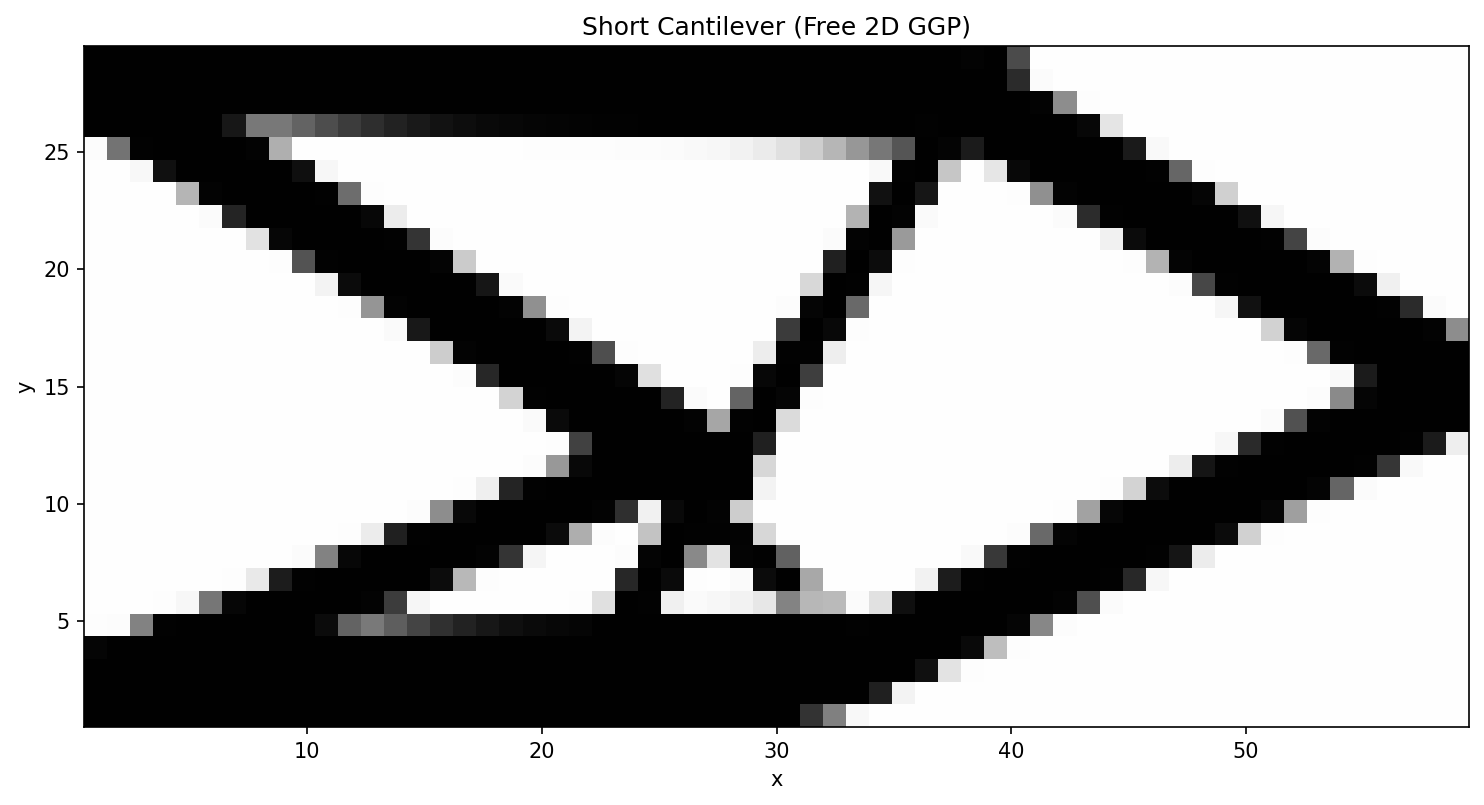
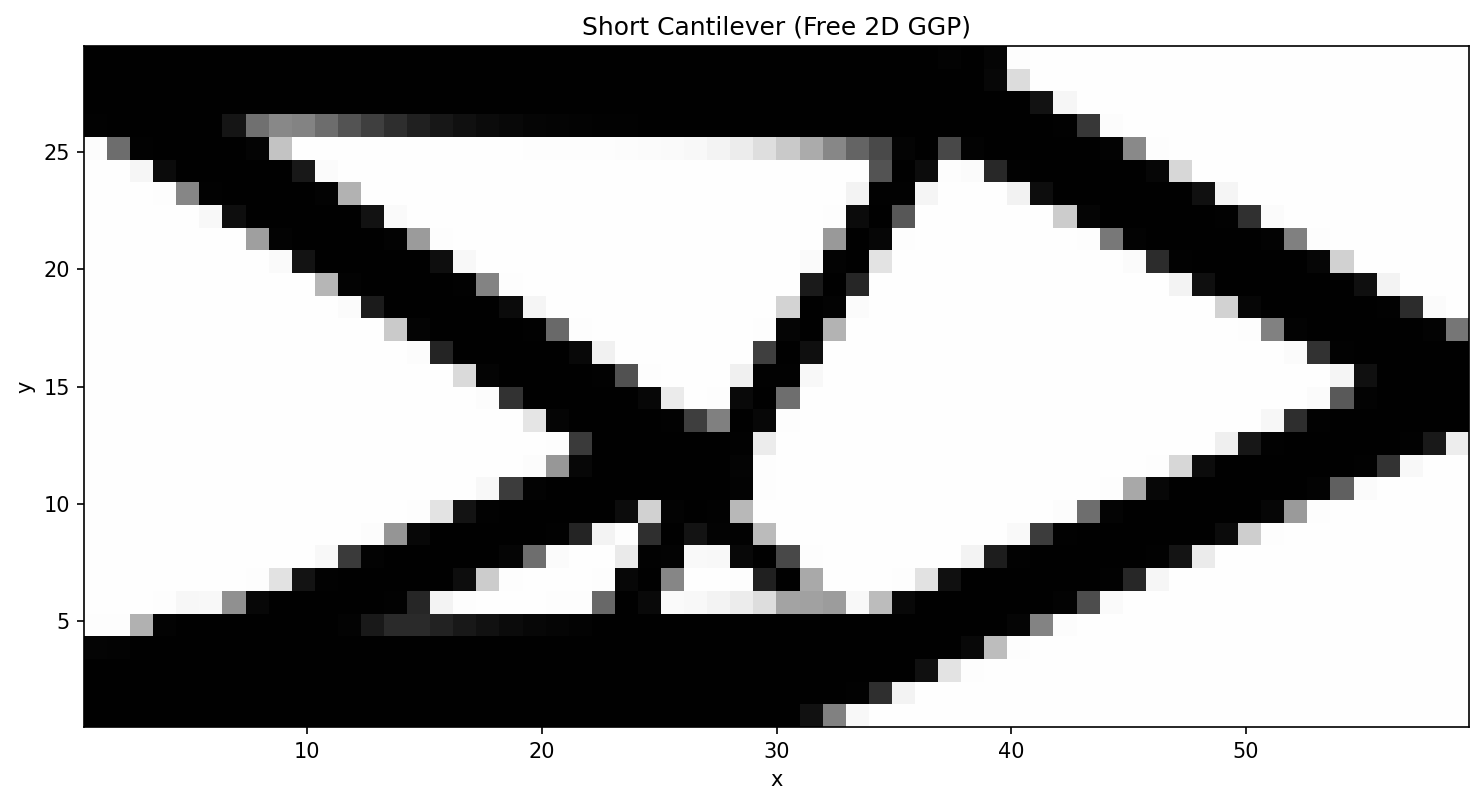
fix: align 2D ALM with Matlab reference; tune benchmarks
ALM (Matlab-consistency):
- Normalize overhang constraints to O(1) as g = (A x)/b - 1, matching
  ALM_constraint.m (tv = (tanalpha - tan45)/tan45). Raw physical residuals
  were poorly scaled for MMA.
- Fix layer_height to Ly/(nY-1) so layers span the full domain height,
  matching Matlab linspace(0, nely, nY).
- Staircase initialization: each column placed at the max-overhang feasible
  position with the rightmost column reaching the load layer, giving non-zero
  gradient from iteration 1.
- Document GEMSEO-native KS aggregation option (upper_bound_KS, rho=40) and
  why we keep individual linear constraints (exact feasible polytope, C~195
  vs ~262 for the conservative KS form).

Benchmarks:
- short_cantilever: 250 iterations (symmetric X-truss, C~74).
- 3d_cantilever: volfrac 0.10; 4-panel visualization with BC/load markers.
- Regenerate optimized-design figures and docs tables.

Cleanup:
- Fix invalid escape sequence in projection/registry.py docstring.

Claude-Session: https://claude.ai/code/session_01Queb8V5EuSbTaDyBGyr8wK

diff --git a/ggp/optimization/pipeline.py b/ggp/optimization/pipeline.py
@@ -58,11 +58,19 @@ class _OverhangDiscipline(Discipline):
             self.local_data.update(input_data)
         x = self.local_data["x_vars"].flatten()
         x_unscaled = self.lb + x * (self.ub - self.lb)
-        self.local_data["overhang"] = self.A @ x_unscaled - self.b_rhs
+        # Normalize each constraint by its rhs (delta or BL > 0) so values are O(1).
+        # This matches the Matlab ALM_constraint.m form g = (A x)/b - 1, which is
+        # what makes KS aggregation with rho=40 numerically well-behaved (raw
+        # physical residuals span tens of units → exp(40*res) overflows).
+        self.local_data["overhang"] = (self.A @ x_unscaled) / self.b_rhs - 1.0
 
     def _compute_jacobian(self, inputs=None, outputs=None, **kwargs):
         scale = self.ub - self.lb
-        self.jac = {"overhang": {"x_vars": self.A * scale[np.newaxis, :]}}
+        self.jac = {
+            "overhang": {
+                "x_vars": (self.A * scale[np.newaxis, :]) / self.b_rhs[:, np.newaxis]
+            }
+        }
 
 
 class GGPPipeline:
@@ -135,25 +143,37 @@ class GGPPipeline:
 
         if mode in ("ALM", "2D_ALM"):
             # Interleaved layout: [Xc_0_0, L_0_0, ..., h_0..h_{np-1}, Mc_0..Mc_{np-1}, y0, theta0]
-            # Matches Matlab reference: Xc on a regular grid, L = nelx/2/np (≈ midpoint),
-            # h = 1 (full column height), Mc = initial_d = 0.5.
-            np_val = kwargs.get("np_val", 1)
-            nY     = kwargs.get("nY", 1)
-            n_xl   = 2 * nY * np_val
+            np_val     = kwargs.get("np_val", 1)
+            nY         = kwargs.get("nY", 1)
+            layer_h    = kwargs.get("layer_height", 3.0)
+            alpha_deg  = kwargs.get("alpha_deg", 45.0)
+            n_xl       = 2 * nY * np_val
             x = np.empty(n)
-            # [Xc, L] interleaved (F-order: layer k is inner loop, column j is outer).
-            # np.repeat gives [c0]*nY, [c1]*nY, ..., [c_{np-1}]*nY — correct F-order layout.
-            col_positions_norm = np.linspace(1.0/(np_val+1), np_val/(np_val+1), np_val)
-            x[0:n_xl:2] = np.repeat(col_positions_norm, nY)  # Xc: F-order grid per layer
-            x[1:n_xl:2] = 0.333                               # L: ~1/3 of range ≈ Matlab Lc=nelx/2/np
-            # h = 1 (normalised to upper bound → full print height, matching Matlab h=ones)
-            x[n_xl       : n_xl + np_val] = 1.0
-            # Mc = initial_d = 0.5
-            x[n_xl + np_val : n_xl + 2*np_val] = 0.50
-            # y0, theta0: neutral (0.5 maps to 0 for symmetric bounds)
+
+            # Staircase initialization: each column is a maximum-overhang ascending
+            # staircase so that the rightmost column reaches x=Lx at mid-height
+            # (the load layer), giving non-zero gradient from iteration 1.
+            # Physical Xc bounds: lb=-1, ub=Lx+1 (range = Lx+2).
+            Lx         = kwargs.get("Lx", 60.0)
+            xc_range   = Lx + 2.0                          # ub - lb = (Lx+1) - (-1)
+            delta_norm = np.tan(np.deg2rad(alpha_deg)) * layer_h / xc_range
+            load_layer  = nY // 2
+            P_bot_right = (Lx + 1.0) / xc_range - load_layer * delta_norm
+            P_bot_left  = (0.0 + 1.0) / xc_range
+            P_bottom = np.linspace(P_bot_left, P_bot_right, np_val)
+
+            # Assign Xc[k, j] = P_bottom[j] + k * delta_norm (clamped to [0,1])
+            # F-order: x_vars index of Xc[k,j] = 2*(j*nY + k)
+            for j in range(np_val):
+                for k in range(nY):
+                    x[2*(j*nY + k)]     = float(np.clip(P_bottom[j] + k*delta_norm, 0.0, 1.0))
+                    x[2*(j*nY + k) + 1] = 0.333   # L normalized ≈ 6 physical
+
+            x[n_xl       : n_xl + np_val] = 1.0   # h = 1 (full height)
+            x[n_xl + np_val : n_xl + 2*np_val] = 0.50  # Mc = 0.5
             if n >= n_xl + 2*np_val + 2:
-                x[n_xl + 2*np_val]     = 0.5  # y0 = 0
-                x[n_xl + 2*np_val + 1] = 0.5  # theta0 = 0
+                x[n_xl + 2*np_val]     = 0.5   # y0 = 0
+                x[n_xl + 2*np_val + 1] = 0.5   # theta0 = 0
             return x
 
         if mode == "3D_Free":
@@ -293,9 +313,14 @@ class GGPPipeline:
 
         _init_kwargs = {}
         if mode in ["ALM", "2D_ALM"] and self.spec.formulation.num_layers:
+            _oh = next((c for c in self.spec.constraints if c.name == "overhang"), None)
+            _alpha = _oh.params.get("alpha_deg", 45.0) if _oh else 45.0
             _init_kwargs = {
-                "np_val": self.spec.formulation.comp_per_layer,
-                "nY":     self.spec.formulation.num_layers,
+                "np_val":       self.spec.formulation.comp_per_layer,
+                "nY":           self.spec.formulation.num_layers,
+                "layer_height": self.spec.formulation.layer_height,
+                "alpha_deg":    _alpha,
+                "Lx":           Lx,
             }
         elif mode in ("Free", "2D_Free"):
             # Pass domain extents and mapper bounds for Matlab-style grid init
@@ -367,6 +392,16 @@ class GGPPipeline:
                 scenario.add_constraint(
                     "overhang", constraint_type="ineq", positive=False, value=0.0
                 )
+
+        # NOTE on overhang aggregation: the Matlab reference (ALM_constraint.m)
+        # aggregates all overhang sub-constraints into a single KS scalar (ka=40).
+        # GEMSEO offers this natively via
+        #   problem.constraints.aggregate(idx, method="upper_bound_KS", rho=ka)
+        # but upper_bound_KS is conservative (over-estimates the max), which shrinks
+        # the feasible polytope and raises compliance (~262 vs ~195). We therefore
+        # keep the (nY-1)*np*2 individual linear inequalities, which give MMA the
+        # exact feasible region. The constraint values are still normalised to O(1)
+        # in _OverhangDiscipline, matching the Matlab g = (A x)/b - 1 form.
 
         algo_options = self.spec.solver.options.copy()
         if "max_iter" not in algo_options:

diff --git a/ggp/visualization/plot.py b/ggp/visualization/plot.py
@@ -62,13 +62,14 @@ def save_density_plot_3d(
     eval_coords: np.ndarray,
     output_path: str | Path,
     title: str = "3D Optimized Design",
-    iso_level: float = 0.3,
+    iso_level: float = 0.5,
+    fixed_face: str = "left",
+    load_point: tuple | None = None,
 ) -> None:
-    """Render a 3D isosurface of the density field via marching cubes.
+    """Render a 4-panel 3D isosurface figure (ρ > iso_level) with BC/load markers.
 
-    Produces a perspective-correct solid-body view matching the kind of output
-    ParaView shows for topology-optimized structures (light-shaded isosurface at
-    rho = iso_level, viewed from a south-east elevated angle).
+    Panels: isometric view, XY front (z=mid), XZ top (y=mid), YZ side (x=max).
+    Fixed face is highlighted in blue; load location shown as a red arrow.
     """
     import matplotlib
     matplotlib.use("Agg")
@@ -79,6 +80,7 @@ def save_density_plot_3d(
     X = eval_coords[:, 0]
     Y = eval_coords[:, 1]
     Z = eval_coords[:, 2]
+    Lx, Ly, Lz = X.max(), Y.max(), Z.max()
 
     x_unique = np.sort(np.unique(np.round(X, 6)))
     y_unique = np.sort(np.unique(np.round(Y, 6)))
@@ -89,42 +91,91 @@ def save_density_plot_3d(
     yi = np.searchsorted(y_unique, np.round(Y, 6))
     zi = np.searchsorted(z_unique, np.round(Z, 6))
 
-    # Build (nelx, nely, nelz) density volume
     vol = np.zeros((nelx, nely, nelz))
     vol[xi, yi, zi] = rho_E
 
-    # Pad with a one-voxel void shell so marching cubes closes the boundary
     vol_pad = np.pad(vol, 1, mode="constant", constant_values=0.0)
     verts, faces, _, _ = marching_cubes(vol_pad, level=iso_level)
 
-    # Convert voxel indices back to physical coordinates (undo the padding offset)
     dx = (x_unique[-1] - x_unique[0]) / max(nelx - 1, 1)
     dy = (y_unique[-1] - y_unique[0]) / max(nely - 1, 1)
     dz = (z_unique[-1] - z_unique[0]) / max(nelz - 1, 1)
-    verts_phys = np.column_stack([
+    vp = np.column_stack([
         x_unique[0] + (verts[:, 0] - 1) * dx,
         y_unique[0] + (verts[:, 1] - 1) * dy,
         z_unique[0] + (verts[:, 2] - 1) * dz,
     ])
 
-    mesh = Poly3DCollection(verts_phys[faces], alpha=0.95, linewidth=0)
-    mesh.set_facecolor("#4d7db5")
-    mesh.set_edgecolor("none")
+    # Default load at mid-right face centre
+    if load_point is None:
+        load_point = (Lx, Ly / 2, Lz / 2)
+    lx, ly, lz = load_point
 
-    fig = plt.figure(figsize=(10, 7), facecolor="white")
-    ax = fig.add_subplot(111, projection="3d")
-    ax.add_collection3d(mesh)
+    def _add_isosurface(ax):
+        mesh = Poly3DCollection(vp[faces], alpha=0.90, linewidth=0)
+        mesh.set_facecolor("#4d7db5")
+        mesh.set_edgecolor("none")
+        ax.add_collection3d(mesh)
 
-    ax.set_xlim(X.min(), X.max())
-    ax.set_ylim(Y.min(), Y.max())
-    ax.set_zlim(Z.min(), Z.max())
-    ax.set_xlabel("x")
-    ax.set_ylabel("y")
-    ax.set_zlabel("z")
-    ax.set_title(title)
-    # South-east elevated view angle (matches typical ParaView preset)
-    ax.view_init(elev=25, azim=-60)
+    def _add_fixed_face(ax):
+        """Blue translucent rectangle for the fixed (left) face."""
+        from mpl_toolkits.mplot3d.art3d import Poly3DCollection as P3D
+        if fixed_face == "left":
+            corners = np.array([[0, 0, 0], [0, Ly, 0], [0, Ly, Lz], [0, 0, Lz]])
+        face = P3D([corners], alpha=0.25, linewidth=0)
+        face.set_facecolor("#2ca02c")
+        ax.add_collection3d(face)
 
-    plt.tight_layout()
+    def _add_load_arrow(ax):
+        ax.quiver(lx, ly, lz, 0, 0, -Lz * 0.15,
+                  color="red", linewidth=2, arrow_length_ratio=0.4)
+        ax.scatter([lx], [ly], [lz], color="red", s=40, zorder=5)
+
+    def _set_limits(ax):
+        ax.set_xlim(0, Lx); ax.set_ylim(0, Ly); ax.set_zlim(0, Lz)
+        ax.set_xlabel("x"); ax.set_ylabel("y"); ax.set_zlabel("z")
+
+    fig = plt.figure(figsize=(14, 10), facecolor="white")
+    fig.suptitle(title, fontsize=13, y=0.98)
+
+    # Panel 1 — isometric view
+    ax1 = fig.add_subplot(221, projection="3d")
+    _add_isosurface(ax1); _add_fixed_face(ax1); _add_load_arrow(ax1)
+    _set_limits(ax1)
+    ax1.view_init(elev=25, azim=-55)
+    ax1.set_title("Isometric", fontsize=10)
+
+    # Panel 2 — front view (looking along Z)
+    ax2 = fig.add_subplot(222, projection="3d")
+    _add_isosurface(ax2); _add_fixed_face(ax2); _add_load_arrow(ax2)
+    _set_limits(ax2)
+    ax2.view_init(elev=0, azim=-90)
+    ax2.set_title("Front (XY plane)", fontsize=10)
+
+    # Panel 3 — top view (looking down Y)
+    ax3 = fig.add_subplot(223, projection="3d")
+    _add_isosurface(ax3); _add_fixed_face(ax3); _add_load_arrow(ax3)
+    _set_limits(ax3)
+    ax3.view_init(elev=90, azim=-90)
+    ax3.set_title("Top (XZ plane)", fontsize=10)
+
+    # Panel 4 — side view (looking along X from right)
+    ax4 = fig.add_subplot(224, projection="3d")
+    _add_isosurface(ax4); _add_fixed_face(ax4); _add_load_arrow(ax4)
+    _set_limits(ax4)
+    ax4.view_init(elev=0, azim=0)
+    ax4.set_title("Side (YZ plane)", fontsize=10)
+
+    # Legend patches
+    from matplotlib.patches import Patch
+    legend_elements = [
+        Patch(facecolor="#4d7db5", alpha=0.9, label=f"Material (ρ > {iso_level})"),
+        Patch(facecolor="#2ca02c", alpha=0.4, label="Fixed face (BC)"),
+        Patch(facecolor="red", label="Point load"),
+    ]
+    fig.legend(handles=legend_elements, loc="lower center", ncol=3, fontsize=9,
+               bbox_to_anchor=(0.5, 0.01))
+
+    plt.tight_layout(rect=[0, 0.05, 1, 0.97])
     plt.savefig(str(output_path), dpi=150, bbox_inches="tight", facecolor="white")
     plt.close()

diff --git a/ggp/utils/alm_utils.py b/ggp/utils/alm_utils.py
@@ -1,14 +1,19 @@
 import numpy as np
 
 
-def _xc_idx(layer, comp, comp_per_layer):
-    """Global variable index for Xc_{layer, comp} in the interleaved layout."""
-    return 2 * (layer * comp_per_layer + comp)
+def _xc_idx(layer, comp, num_layers):
+    """Global variable index for Xc_{layer, comp} in the F-order interleaved layout.
+
+    The mapper reshapes Xc with order='F' to (nY, np_val), so the flat index of
+    element [layer, comp] is comp*nY + layer, giving global x_vars index
+    2*(comp*num_layers + layer).
+    """
+    return 2 * (comp * num_layers + layer)
 
 
-def _l_idx(layer, comp, comp_per_layer):
-    """Global variable index for L_{layer, comp} in the interleaved layout."""
-    return 2 * (layer * comp_per_layer + comp) + 1
+def _l_idx(layer, comp, num_layers):
+    """Global variable index for L_{layer, comp} in the F-order interleaved layout."""
+    return 2 * (comp * num_layers + layer) + 1
 
 
 def create_alm_overhang_constraints(num_layers, comp_per_layer, layer_height, alpha_deg,
@@ -53,10 +58,10 @@ def create_alm_overhang_constraints(num_layers, comp_per_layer, layer_height, al
     row = 0
     for layer in range(num_interfaces):
         for j in range(np_val):
-            ix_k   = _xc_idx(layer,     j, np_val)
-            il_k   = _l_idx(layer,      j, np_val)
-            ix_k1  = _xc_idx(layer + 1, j, np_val)
-            il_k1  = _l_idx(layer + 1,  j, np_val)
+            ix_k   = _xc_idx(layer,     j, nY)
+            il_k   = _l_idx(layer,      j, nY)
+            ix_k1  = _xc_idx(layer + 1, j, nY)
+            il_k1  = _l_idx(layer + 1,  j, nY)
 
             # Constraint 1 (right overhang): Xc_{k+1} + L_{k+1}/2 - Xc_k - L_k/2 <= delta_r
             A[row, ix_k1] =  1.0
@@ -104,9 +109,9 @@ def create_bridge_length_constraints(num_layers, comp_per_layer, bridge_length):
     row = 0
     for layer in range(1, nY):
         for j in range(np_val):
-            ix_base = _xc_idx(0,     j, np_val)
-            ix_k    = _xc_idx(layer, j, np_val)
-            il_k    = _l_idx(layer,  j, np_val)
+            ix_base = _xc_idx(0,     j, nY)
+            ix_k    = _xc_idx(layer, j, nY)
+            il_k    = _l_idx(layer,  j, nY)
 
             # Right: Xc_k + L_k/2 - Xc_0 <= BL
             A[row, ix_k]    =  1.0

diff --git a/ggp/projection/registry.py b/ggp/projection/registry.py
@@ -48,7 +48,7 @@ def get_mapper(mode: str, **kwargs) -> ProjectionMapper:
     ----------
     mode : str
         Formulation mode (must match a previously registered mapper).
-    \*\*kwargs
+    **kwargs
         Forwarded to the mapper constructor.
 
     Raises

diff --git a/docs/ex05_3d_cantilever.rst b/docs/ex05_3d_cantilever.rst
@@ -28,15 +28,18 @@ For large 3D problems an iterative (PCG + GAMG) FEM solver saves memory:
 Result
 ------
 
-The image below shows an isosurface rendering of the optimised 3D density field
-(isosurface at ρ = 0.3, viewed from a south-east elevated perspective).
+The figure below shows four views of the optimised 3D density field (isosurface
+at ρ = 0.5, i.e. solid material only): isometric, front (XY plane), top (XZ
+plane), and side (YZ plane).  The green face marks the fixed boundary condition;
+the red dot and arrow mark the applied point load at the mid-right face.
 
 .. figure:: _static/3d_cantilever_optimized.png
-   :alt: Optimized 3D cantilever topology (isosurface rendering)
-   :width: 90%
+   :alt: Optimized 3D cantilever topology — 4-panel isosurface views
+   :width: 100%
    :align: center
 
-   3D isosurface of the optimised density field after 150 MMA iterations (2 % volume fraction — consistent with 3D bar cross-sections).
+   Four-view isosurface (ρ > 0.5) of the optimised 3D density field after 150
+   MMA iterations (10 % volume fraction).
 
 Problem details
 ---------------
@@ -52,7 +55,7 @@ Problem details
 +---------------------+------------------+
 | Components          | 20               |
 +---------------------+------------------+
-| Volume fraction     | 0.02             |
+| Volume fraction     | 0.10             |
 +---------------------+------------------+
 | Algorithm           | MMA              |
 +---------------------+------------------+

diff --git a/docs/ex01_short_cantilever.rst b/docs/ex01_short_cantilever.rst
@@ -27,7 +27,7 @@ Result
    :width: 80%
    :align: center
 
-   Optimized density field after 400 MMA iterations (40 % volume fraction).
+   Optimized density field after 250 MMA iterations (40 % volume fraction, C = 74.3).
 
 Problem details
 ---------------
@@ -41,17 +41,17 @@ Problem details
 +---------------------+------------------+
 | Formulation         | Free 2D          |
 +---------------------+------------------+
-| Method              | AMNA (MNA)       |
+| Method              | GP               |
 +---------------------+------------------+
 | Components          | 18               |
 +---------------------+------------------+
-| ``r_gp`` (σ)        | 1.0              |
-+---------------------+------------------+
-| Min thickness       | 3 elements       |
+| ``r_gp`` (σ)        | 0.5              |
 +---------------------+------------------+
 | Volume fraction     | 0.40             |
 +---------------------+------------------+
 | Algorithm           | MMA              |
 +---------------------+------------------+
-| Max iterations      | 400              |
+| Max iterations      | 250              |
++---------------------+------------------+
+| Compliance          | 74.3             |
 +---------------------+------------------+
